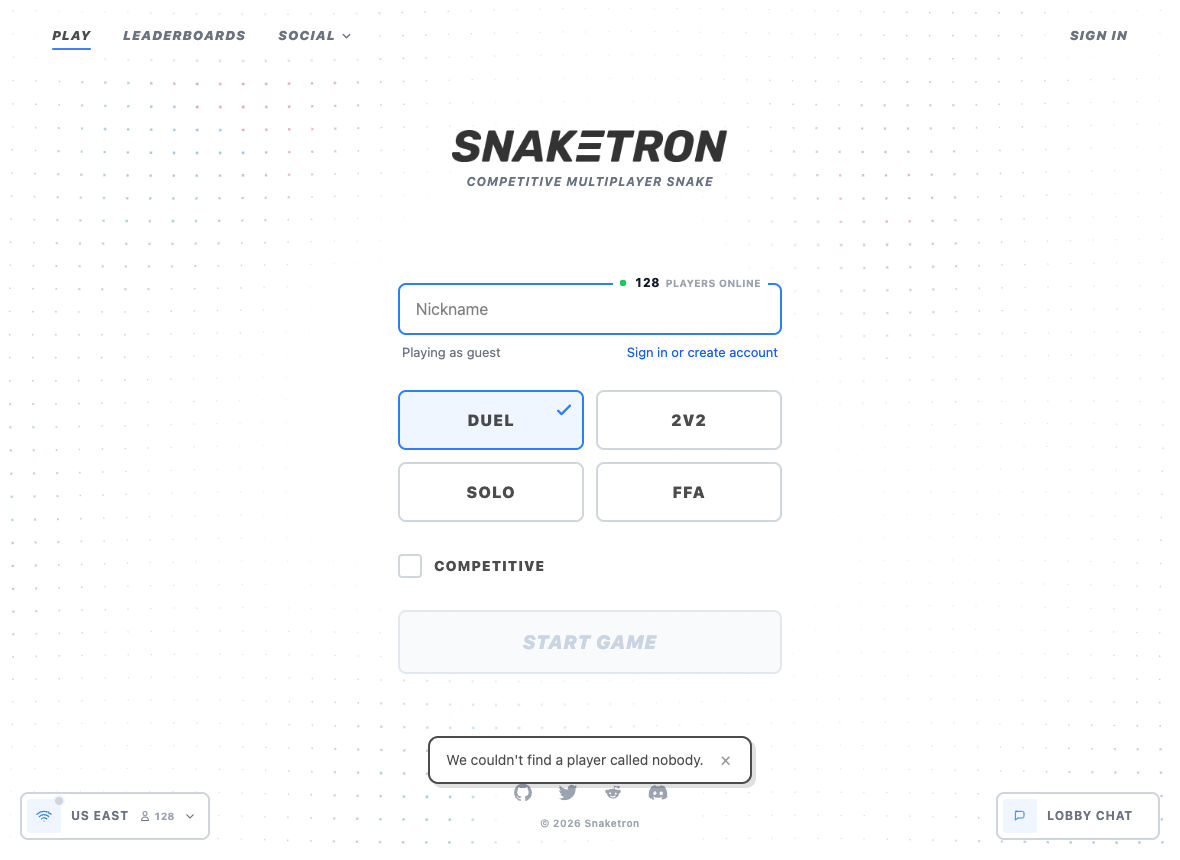
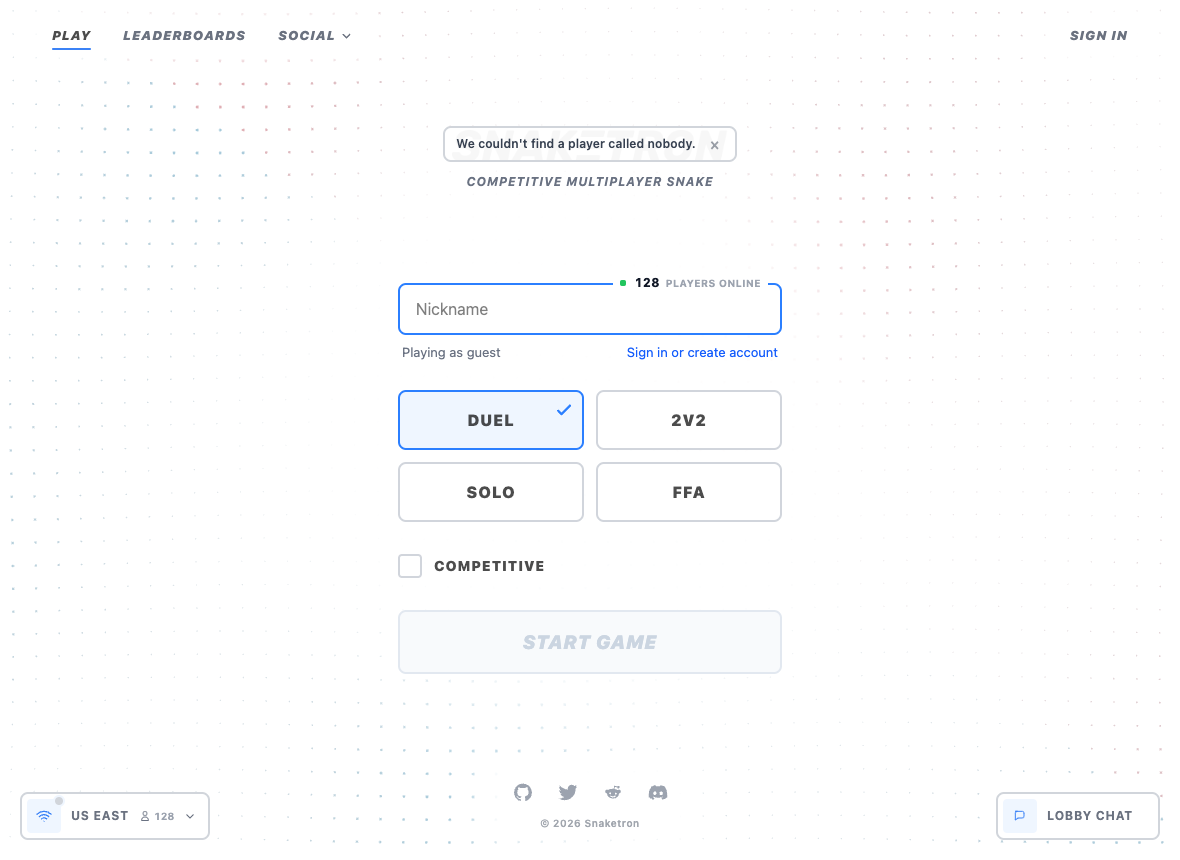
Say what the wait is for, and use the status rack to say it
Three pieces of review feedback.

The disabled Start button said "Waiting for Leader", which changed the
control's label based on who was looking at it. It now reads "Start Game"
for everyone and simply disables — the explanation belongs next to the
controls, not inside them. Same for GameModeSelector's queue button.

The form hint now says "Waiting for lobby host to start matchmaking", which
names the thing being waited on rather than restating the rule. The
leaderboard's tooltip matches.

The redirect notice was a bespoke bottom-docked toast with its own border,
shadow, animation and placement — a second visual language for something
the home screen already has. ConnectionStatusRack is that lane: an
always-mounted aria-live region at the top of the page holding
.home-status-badge items. The notice is now one more badge in it, which
also means it stacks with "Connecting to game server…" instead of competing
with it, and drops ~90 lines of one-off CSS. Its only departure from the
badge chassis is type: 10px uppercase suits a status phrase and not a
sentence, so .is-prose relaxes that and nothing else.

Changed region(s): [[0.3661, 0.8465, 0.6407, 0.9372], [0.3661, 0.1512, 0.6407, 0.2116]]

diff --git a/client/web/index.css b/client/web/index.css
@@ -4964,6 +4964,43 @@ a.home-social-icon:hover {
   color: #a16207;
 }
 
+/* A badge carrying a full sentence rather than a status phrase. The 10px
+   uppercase treatment is right for "Connecting to game server…" and unreadable
+   for prose, so this keeps the chassis and relaxes only the type. */
+.home-status-badge.is-prose {
+  font-size: 12px;
+  font-weight: 600;
+  letter-spacing: 0.1px;
+  text-transform: none;
+  color: #374151;
+}
+
+/* The rack is pointer-events: none so it never blocks the page; the one
+   interactive control inside it has to opt back in. */
+.home-status-dismiss {
+  flex: none;
+  margin-left: 2px;
+  width: 18px;
+  height: 18px;
+  padding: 0;
+  border: 0;
+  border-radius: 5px;
+  background: transparent;
+  color: inherit;
+  font-size: 15px;
+  line-height: 1;
+  cursor: pointer;
+  opacity: 0.5;
+  pointer-events: auto;
+  transition: opacity 120ms ease, background-color 120ms ease;
+}
+
+.home-status-dismiss:hover,
+.home-status-dismiss:focus-visible {
+  opacity: 1;
+  background-color: rgba(0, 0, 0, 0.06);
+}
+
 .home-status-dot {
   width: 6px;
   height: 6px;
@@ -6216,96 +6253,5 @@ a.home-social-icon:hover {
   }
   .skins-qa-tuning {
     position: static;
-  }
-}
-
-/* Home notice
-   ---------------------------------------------------------------------------
-   A one-shot sentence from whatever redirected to the home screen — most often
-   an invite link whose target was not reachable. Docked below the 72px header
-   and centered over the page's own stack, so it never displaces the start
-   form: the message is an aside, and the player's next action is the form. */
-.home-notice-dock {
-  /* Docked bottom-centre rather than under the header: the top of this screen
-     is the brand lockup, and a toast there covers it. The left and right
-     bottom corners belong to the region selector and the chat trigger, so the
-     centre lane is the one free strip on the page. Raised clear of the social
-     footer that closes the home screen's centre stack. */
-  position: fixed;
-  right: 0;
-  bottom: calc(76px + var(--ad-route-bottom-reserve));
-  left: 0;
-  z-index: 45;
-  display: flex;
-  justify-content: center;
-  padding: 0 16px;
-  pointer-events: none;
-}
-
-/* Narrow screens have no free centre lane — both bottom docks span most of the
-   width — so the notice sits above them instead of beside them. */
-@media (max-width: 640px) {
-  .home-notice-dock {
-    bottom: calc(88px + var(--ad-route-bottom-reserve));
-  }
-}
-
-.home-notice {
-  display: flex;
-  align-items: center;
-  gap: 10px;
-  max-width: min(520px, 100%);
-  padding: 10px 12px 10px 16px;
-  border: 2px solid var(--color-black-70, #1a1a1a);
-  border-radius: 10px;
-  background: #ffffff;
-  box-shadow: 4px 4px 0 rgba(0, 0, 0, 0.12);
-  color: var(--color-black-70, #1a1a1a);
-  font-size: 14px;
-  line-height: 1.35;
-  pointer-events: auto;
-  animation: home-notice-enter 220ms ease-out;
-}
-
-.home-notice.is-error {
-  border-color: #b91c1c;
-  color: #b91c1c;
-}
-
-.home-notice-dismiss {
-  flex: none;
-  width: 24px;
-  height: 24px;
-  border: 0;
-  border-radius: 6px;
-  background: transparent;
-  color: inherit;
-  font-size: 18px;
-  line-height: 1;
-  cursor: pointer;
-  opacity: 0.55;
-  transition: opacity 120ms ease, background-color 120ms ease;
-}
-
-.home-notice-dismiss:hover,
-.home-notice-dismiss:focus-visible {
-  opacity: 1;
-  background-color: rgba(0, 0, 0, 0.06);
-}
-
-@keyframes home-notice-enter {
-  from {
-    opacity: 0;
-    transform: translateY(6px);
-  }
-  to {
-    opacity: 1;
-    transform: translateY(0);
-  }
-}
-
-@media (prefers-reduced-motion: reduce) {
-  .home-notice {
-    animation: none;
   }
 }

diff --git a/client/web/components/ConnectionStatusRack.tsx b/client/web/components/ConnectionStatusRack.tsx
@@ -1,5 +1,6 @@
 import React from 'react';
 import { useConnectionBanner } from '../hooks/useConnectionBanner';
+import type { HomeNotice } from '../utils/homeNotice';
 
 interface ConnectionStatusRackProps {
   /** From `isConnectionReady` — whether the client can act right now. */
@@ -7,6 +8,14 @@ interface ConnectionStatusRackProps {
   regionsLoading: boolean;
   regionsError: string | null;
   hasSelectedRegion: boolean;
+  /**
+   * A one-shot message from whatever redirected here, shown as one more badge.
+   *
+   * Unlike the connection badges it is not derived from live state, so it
+   * cannot clear itself — hence the dismiss control.
+   */
+  notice?: HomeNotice | null;
+  onDismissNotice?: () => void;
 }
 
 /**
@@ -22,6 +31,8 @@ export const ConnectionStatusRack: React.FC<ConnectionStatusRackProps> = ({
   regionsLoading,
   regionsError,
   hasSelectedRegion,
+  notice = null,
+  onDismissNotice,
 }) => {
   const showConnecting = useConnectionBanner(isReady);
   const showRegionError = Boolean(regionsError);
@@ -50,6 +61,24 @@ export const ConnectionStatusRack: React.FC<ConnectionStatusRackProps> = ({
         <div className="home-status-badge is-warning">
           <span className="home-status-dot" aria-hidden="true" />
           <span>Connecting to game server…</span>
+        </div>
+      )}
+      {notice && (
+        <div
+          data-testid="home-notice"
+          className={`home-status-badge is-prose${notice.tone === 'error' ? ' is-error' : ''}`}
+        >
+          <span>{notice.message}</span>
+          {onDismissNotice && (
+            <button
+              type="button"
+              aria-label="Dismiss notification"
+              onClick={onDismissNotice}
+              className="home-status-dismiss"
+            >
+              ×
+            </button>
+          )}
         </div>
       )}
     </div>

diff --git a/client/web/components/NewHome.tsx b/client/web/components/NewHome.tsx
@@ -246,30 +246,13 @@ export const NewHome: React.FC<NewHomeProps> = ({ onOpenAuth, onOpenAccount }) =
           onLogout={logout}
         />
 
-        {homeNotice && (
-          <div className="home-notice-dock" role="status" aria-live="polite">
-            <div
-              data-testid="home-notice"
-              className={`home-notice${homeNotice.tone === 'error' ? ' is-error' : ''}`}
-            >
-              <span>{homeNotice.message}</span>
-              <button
-                type="button"
-                aria-label="Dismiss notification"
-                onClick={() => setHomeNotice(null)}
-                className="home-notice-dismiss"
-              >
-                ×
-              </button>
-            </div>
-          </div>
-        )}
-
         <ConnectionStatusRack
           isReady={isReady}
           regionsLoading={regionsLoading}
           regionsError={regionsError}
           hasSelectedRegion={currentRegionId !== ''}
+          notice={homeNotice}
+          onDismissNotice={() => setHomeNotice(null)}
         />
 
         <main className="home-main">

diff --git a/client/web/components/GameStartForm.tsx b/client/web/components/GameStartForm.tsx
@@ -246,9 +246,7 @@ export const GameStartForm: React.FC<GameStartFormProps> = ({
     ? 'Finding Match...'
     : isLoading
         ? 'Starting...'
-        : isLobbyLeader
-            ? 'Start Game'
-            : 'Waiting for Leader';
+        : 'Start Game';
   const wasStartButtonDisabledRef = useRef(startButtonDisabled);
   const [enableAnimation, setEnableAnimation] = useState({ key: 0, visible: false });
 
@@ -389,7 +387,7 @@ export const GameStartForm: React.FC<GameStartFormProps> = ({
               className="mb-3 text-[13px] text-gray-500 text-center"
               data-testid="leader-only-notice"
             >
-              The lobby leader chooses the mode and starts the match.
+              Waiting for lobby host to start matchmaking
             </p>
           )}
           <div className="grid grid-cols-2 gap-3">

diff --git a/client/web/components/GameModeSelector.tsx b/client/web/components/GameModeSelector.tsx
@@ -110,7 +110,7 @@ function GameModeSelector() {
   const handleStartQueue = async () => {
     // Same lobby-wide action as the home screen's Start button.
     if (!isLobbyLeader) {
-      setAuthError('Only the lobby leader can start a match');
+      setAuthError('Waiting for lobby host to start matchmaking');
       return;
     }
 
@@ -296,9 +296,7 @@ function GameModeSelector() {
               >
                 {isAuthenticating
                   ? 'Starting...'
-                  : isLobbyLeader
-                    ? `Start Queue (${selectedModes.size} mode${selectedModes.size > 1 ? 's' : ''})`
-                    : 'Waiting for Leader'}
+                  : `Start Queue (${selectedModes.size} mode${selectedModes.size > 1 ? 's' : ''})`}
               </button>
             )}
           </div>

diff --git a/client/web/components/Leaderboard.tsx b/client/web/components/Leaderboard.tsx
@@ -341,7 +341,7 @@ const LeaderboardContent: React.FC<{
                   disabled={isStartingQueue || !isLobbyLeader}
                   title={isLobbyLeader
                     ? undefined
-                    : 'Only the lobby leader can start a match'}
+                    : 'Waiting for lobby host to start matchmaking'}
                   className="font-bold text-blue-600 hover:underline disabled:opacity-60 disabled:cursor-not-allowed"
                 >
                   {isStartingQueue ? startingActionLabel : playActionLabel}
